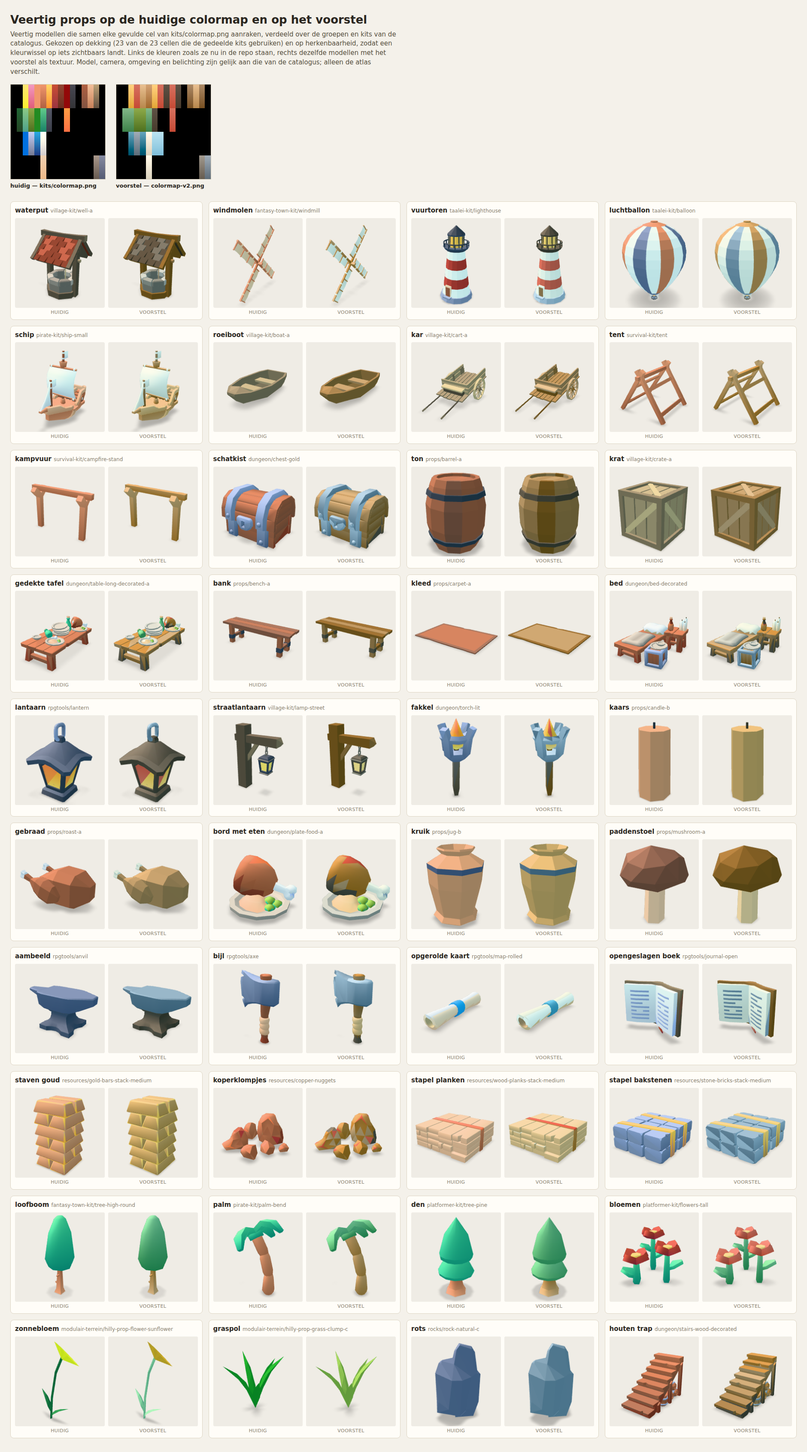
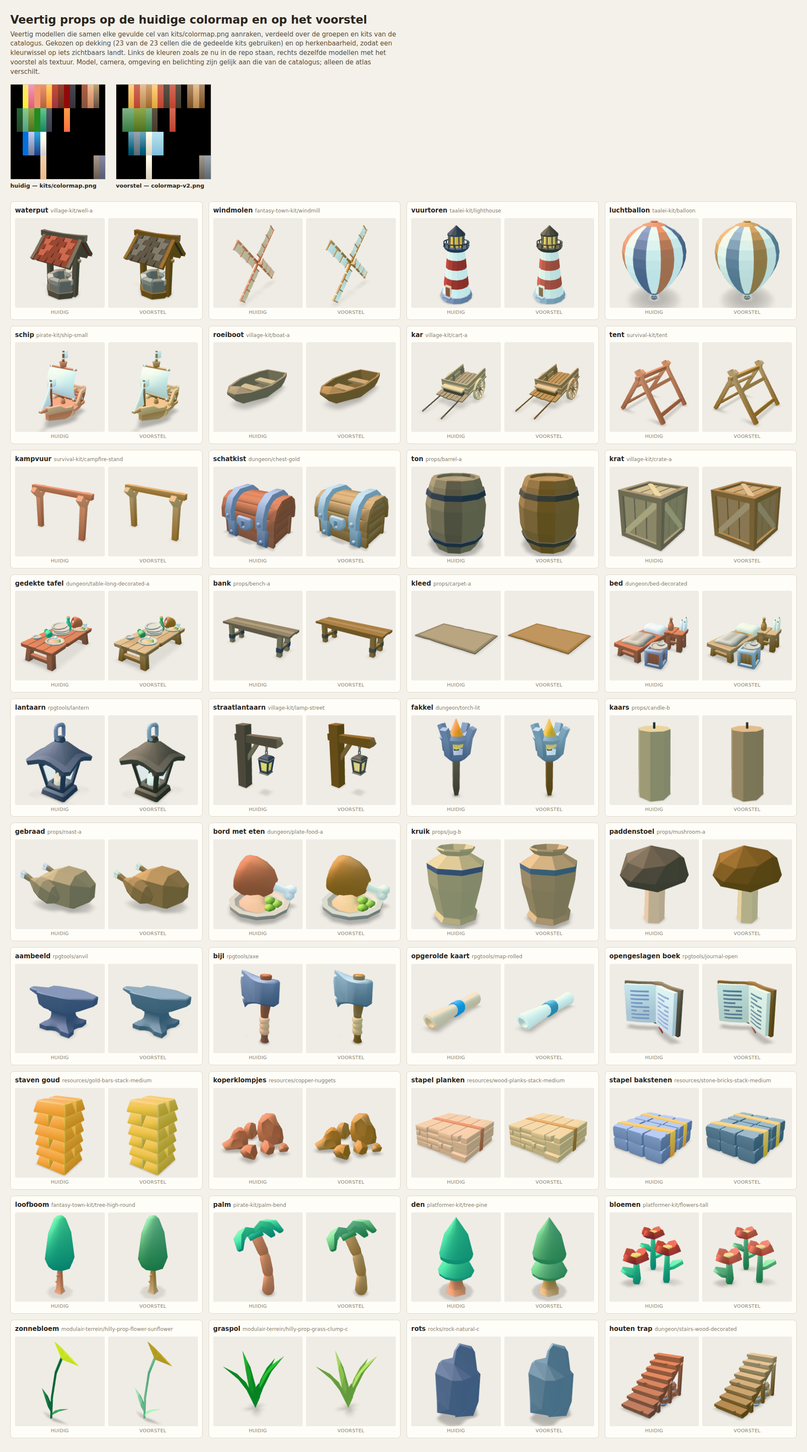
Voorstel en review herrekend op het herstelde palet
Main heeft de kleurglitches in vijf kits rechtgezet, en daarmee verschoof
kits/palet.json: cellen die eerst per ongeluk werden aangeraakt tellen niet meer
mee. Omdat bouw-kandidaat.mjs elke familie weegt naar hoeveel modellen een cel
gebruiken, verandert daarmee het voorstel zelf. colormap-v2.png, het
kleurregister en de twee vergelijkingsbladen zijn opnieuw gebouwd.

De review stond nog vol cijfers van voor de overname en voor het herstel:
vijftien banen in plaats van dertien, 1019 modellen in plaats van 1008, en een
bladensectie die nog het pad /voor/ en de studio-omgeving neutral beschreef. Die
kloppen nu weer, met de tabel per familie zoals bouw-kandidaat.mjs hem afdrukt.

De catalogus houdt bij deze samenvoeging beide kanten: demoClip uit main kiest de
clip die in een lus om aan te zien is, zetLicht van deze tak zet de omgeving en
de belichting uit licht.json.

diff --git a/docs/kleur_per_groep.html b/docs/kleur_per_groep.html
@@ -185,7 +185,7 @@ td .cel { display: block; }
 </div>
 
 <script>
-const GEGEVENS = {"totaal":1093,"paletten":[{"id":"gedeeld","naam":"Gedeelde kits","atlas":"kits/colormap.png","modellen":1008,"groepen":[{"id":"bouwpakket","kort":"Bouwpakket","naam":"Bouwpakket & molens","n":225},{"id":"terrein","kort":"Grond","naam":"Grond & terrein","n":138},{"id":"rotsen","kort":"Rotsen","naam":"Rotsen & stenen","n":115},{"id":"grotterrein","kort":"Grotterrein","naam":"Grotterrein & mijnwerk","n":80},{"id":"grondstoffen","kort":"Grondstoffen","naam":"Grondstoffen & voorraad","n":57},{"id":"opslag","kort":"Kisten","naam":"Kisten & vaten","n":54},{"id":"bouwwerken","kort":"Bouwwerken","naam":"Bouwwerken & platforms","n":50},{"id":"bomen","kort":"Bomen","naam":"Bomen & palmen","n":39},{"id":"gereedschap","kort":"Gereedschap","naam":"Gereedschap & wapens","n":39},{"id":"verbinding","kort":"Trappen & bruggen","naam":"Trappen, bruggen & ladders","n":35},{"id":"hek","kort":"Hekken","naam":"Hekken, palen & poorten","n":35},{"id":"planten","kort":"Planten","naam":"Planten, gras & bloemen","n":27},{"id":"eten","kort":"Eten","naam":"Eten & koken","n":22},{"id":"huisraad","kort":"Huisraad","naam":"Huisraad & meubels","n":19},{"id":"schepen","kort":"Schepen","naam":"Schepen & varen","n":19},{"id":"licht","kort":"Licht","naam":"Licht & lampen","n":18},{"id":"items","kort":"Items","naam":"Verzamelobjecten & mechaniek","n":14},{"id":"borden","kort":"Borden","naam":"Borden, vlaggen & doelen","n":11},{"id":"zeebodem","kort":"Zeebodem","naam":"Koraal, zeewier & schelpen","n":4},{"id":"reisgerei","kort":"Reisgerei","naam":"Reisgerei & kaarten","n":4},{"id":"kamp","kort":"Kamp","naam":"Kamp & tenten","n":3}],"kleuren":[{"hex":"#8f785b","naam":"oranje","totaal":280,"per":{"opslag":9,"huisraad":4,"licht":14,"bouwpakket":96,"planten":1,"bouwwerken":8,"bomen":13,"grotterrein":32,"verbinding":10,"terrein":49,"eten":2,"hek":15,"grondstoffen":2,"gereedschap":15,"reisgerei":4,"items":1,"schepen":4,"borden":1}},{"hex":"#d07b56","naam":"oranje","totaal":268,"per":{"opslag":36,"huisraad":11,"bouwpakket":48,"items":2,"eten":7,"verbinding":14,"bouwwerken":29,"borden":10,"hek":20,"bomen":23,"gereedschap":17,"terrein":4,"rotsen":4,"kamp":3,"planten":3,"schepen":13,"grondstoffen":24}},{"hex":"#6d738a","naam":"lichtgrijs","totaal":228,"per":{"opslag":19,"huisraad":2,"bouwpakket":47,"items":6,"verbinding":14,"eten":4,"licht":5,"rotsen":78,"bouwwerken":3,"borden":1,"terrein":1,"schepen":4,"grondstoffen":20,"gereedschap":22,"reisgerei":2}},{"hex":"#88796d","naam":"lichtgrijs","totaal":212,"per":{"huisraad":3,"opslag":5,"bouwpakket":51,"eten":8,"verbinding":2,"licht":6,"grotterrein":61,"rotsen":20,"terrein":41,"bouwwerken":8,"grondstoffen":1,"gereedschap":4,"items":1,"borden":1}},{"hex":"#995a41","naam":"bruin","totaal":198,"per":{"opslag":32,"huisraad":18,"bouwpakket":40,"items":1,"eten":10,"licht":5,"verbinding":6,"bouwwerken":20,"hek":11,"gereedschap":16,"bomen":9,"terrein":1,"schepen":9,"borden":3,"grondstoffen":11,"rotsen":4,"reisgerei":2}},{"hex":"#9da4c4","naam":"blauw","totaal":189,"per":{"opslag":24,"huisraad":2,"bouwpakket":49,"items":4,"eten":7,"verbinding":8,"licht":4,"hek":2,"gereedschap":30,"rotsen":18,"terrein":2,"bouwwerken":4,"borden":2,"schepen":3,"grondstoffen":27,"reisgerei":3}},{"hex":"#dd9f79","naam":"oranje","totaal":129,"per":{"opslag":24,"huisraad":3,"licht":9,"bouwpakket":11,"eten":7,"verbinding":4,"bouwwerken":5,"kamp":1,"zeebodem":3,"terrein":3,"schepen":4,"rotsen":13,"hek":1,"planten":1,"grondstoffen":25,"gereedschap":11,"reisgerei":2,"bomen":2}},{"hex":"#f0ece3","naam":"lichtoranje","totaal":127,"per":{"opslag":5,"huisraad":4,"licht":9,"bouwpakket":45,"eten":8,"borden":5,"hek":1,"verbinding":4,"bouwwerken":2,"kamp":2,"zeebodem":1,"terrein":15,"planten":3,"schepen":8,"grondstoffen":9,"gereedschap":2,"reisgerei":4}},{"hex":"#7f3927","naam":"rood","totaal":105,"per":{"opslag":17,"huisraad":14,"bouwpakket":35,"items":1,"eten":4,"licht":4,"verbinding":2,"bomen":6,"planten":1,"grondstoffen":15,"gereedschap":5,"bouwwerken":1}},{"hex":"#474a58","naam":"grijs","totaal":100,"per":{"huisraad":2,"opslag":8,"bouwpakket":40,"items":4,"verbinding":8,"rotsen":7,"schepen":8,"grondstoffen":8,"gereedschap":11,"reisgerei":1,"licht":3}},{"hex":"#3e3e44","naam":"grijs","totaal":93,"per":{"bouwpakket":44,"verbinding":6,"opslag":6,"terrein":2,"bouwwerken":4,"planten":2,"schepen":10,"huisraad":2,"licht":7,"eten":3,"rotsen":2,"gereedschap":4,"bomen":1}},{"hex":"#228b22","naam":"groen","totaal":60,"per":{"verbinding":1,"terrein":55,"planten":4}},{"hex":"#3da679","naam":"groen","totaal":52,"per":{"opslag":6,"bouwpakket":16,"eten":5,"bomen":15,"terrein":5,"schepen":2,"planten":1,"grondstoffen":1,"rotsen":1}},{"hex":"#b2413a","naam":"rood","totaal":43,"per":{"opslag":9,"huisraad":1,"licht":4,"items":4,"eten":3,"bouwpakket":1,"bomen":6,"borden":1,"planten":4,"grondstoffen":7,"gereedschap":1,"reisgerei":2}},{"hex":"#f0c59d","naam":"lichtoranje","totaal":41,"per":{"opslag":9,"huisraad":1,"licht":5,"eten":4,"bouwpakket":3,"planten":2,"grondstoffen":5,"gereedschap":7,"reisgerei":2,"rotsen":1,"verbinding":2}},{"hex":"#ff8744","naam":"oranje","totaal":39,"per":{"opslag":9,"huisraad":2,"licht":4,"items":5,"eten":3,"bouwpakket":1,"bomen":2,"grondstoffen":12,"gereedschap":1}},{"hex":"#ffb349","naam":"oranje","totaal":39,"per":{"opslag":2,"licht":7,"items":8,"huisraad":1,"planten":2,"grondstoffen":12,"gereedschap":3,"eten":1,"verbinding":3}},{"hex":"#6d8d33","naam":"groen","totaal":21,"per":{"eten":4,"planten":11,"bomen":4,"opslag":1,"bouwwerken":1}},{"hex":"#6cb588","naam":"groen","totaal":13,"per":{"opslag":4,"bouwpakket":5,"eten":3,"rotsen":1}},{"hex":"#206734","naam":"donkergroen","totaal":11,"per":{"planten":6,"bomen":5}},{"hex":"#2474b4","naam":"blauw","totaal":11,"per":{"terrein":7,"planten":1,"gereedschap":1,"reisgerei":2}},{"hex":"#f1976c","naam":"oranje","totaal":4,"per":{"eten":2,"bouwwerken":2}},{"hex":"#fbf02d","naam":"geel","totaal":4,"per":{"planten":4}}]},{"id":"grot","naam":"Grot","atlas":"kits/modular-cave-kit/Textures/colormap.png","modellen":40,"groepen":[{"id":"grot","kort":"Grot","naam":"Grot & gangen","n":40}],"kleuren":[{"hex":"#a16d58","naam":"oranje","totaal":36,"per":{"grot":36}},{"hex":"#8a5d4b","naam":"bruin","totaal":29,"per":{"grot":29}},{"hex":"#ba7554","naam":"oranje","totaal":25,"per":{"grot":25}},{"hex":"#9da4c4","naam":"blauw","totaal":1,"per":{"grot":1}}]},{"id":"onderwater","naam":"Onderwater","atlas":null,"modellen":45,"groepen":[{"id":"dieren","kort":"Dieren","naam":"Dieren","n":20},{"id":"zeebodem","kort":"Zeebodem","naam":"Koraal, zeewier & schelpen","n":14},{"id":"rotsen","kort":"Rotsen","naam":"Rotsen & stenen","n":11}],"kleuren":[{"hex":"#5a5c61","naam":"grijs","totaal":11,"per":{"rotsen":11}},{"hex":"#e7e7e7","naam":"wit","totaal":7,"per":{"zeebodem":7}},{"hex":"#1b5f1d","naam":"donkergroen","totaal":3,"per":{"zeebodem":3}},{"hex":"#272a2f","naam":"donkergrijs","totaal":2,"per":{"dieren":2}},{"hex":"#1d1c22","naam":"donkergrijs","totaal":1,"per":{"dieren":1}},{"hex":"#275f38","naam":"donkergroen","totaal":1,"per":{"dieren":1}},{"hex":"#2a2c51","naam":"donkerblauw","totaal":1,"per":{"dieren":1}},{"hex":"#2c50dd","naam":"blauw","totaal":1,"per":{"dieren":1}},{"hex":"#323232","naam":"donkergrijs","totaal":1,"per":{"dieren":1}},{"hex":"#363636","naam":"donkergrijs","totaal":1,"per":{"dieren":1}},{"hex":"#38723d","naam":"groen","totaal":1,"per":{"dieren":1}},{"hex":"#49566b","naam":"blauw","totaal":1,"per":{"dieren":1}},{"hex":"#4d4f5a","naam":"grijs","totaal":1,"per":{"dieren":1}},{"hex":"#4f5d7e","naam":"blauw","totaal":1,"per":{"dieren":1}},{"hex":"#523525","naam":"donkerbruin","totaal":1,"per":{"dieren":1}},{"hex":"#586780","naam":"blauw","totaal":1,"per":{"dieren":1}},{"hex":"#5e749c","naam":"blauw","totaal":1,"per":{"dieren":1}},{"hex":"#6974a0","naam":"blauw","totaal":1,"per":{"zeebodem":1}},{"hex":"#6ba069","naam":"groen","totaal":1,"per":{"zeebodem":1}},{"hex":"#755439","naam":"bruin","totaal":1,"per":{"dieren":1}},{"hex":"#84888f","naam":"lichtgrijs","totaal":1,"per":{"dieren":1}},{"hex":"#88898e","naam":"lichtgrijs","totaal":1,"per":{"dieren":1}},{"hex":"#a0885f","naam":"oranje","totaal":1,"per":{"zeebodem":1}},{"hex":"#a38876","naam":"oranje","totaal":1,"per":{"dieren":1}},{"hex":"#a96f72","naam":"rood","totaal":1,"per":{"dieren":1}},{"hex":"#a9b7cf","naam":"blauw","totaal":1,"per":{"dieren":1}},{"hex":"#afc2d0","naam":"lichtblauw","totaal":1,"per":{"dieren":1}},{"hex":"#b1b4d7","naam":"lichtblauw","totaal":1,"per":{"dieren":1}},{"hex":"#b5bee7","naam":"lichtblauw","totaal":1,"per":{"dieren":1}},{"hex":"#c24c32","naam":"rood","totaal":1,"per":{"dieren":1}},{"hex":"#d4392d","naam":"rood","totaal":1,"per":{"dieren":1}},{"hex":"#d65725","naam":"oranje","totaal":1,"per":{"dieren":1}},{"hex":"#d78b5b","naam":"oranje","totaal":1,"per":{"dieren":1}},{"hex":"#e0e0e0","naam":"wit","totaal":1,"per":{"dieren":1}},{"hex":"#e75178","naam":"roze","totaal":1,"per":{"zeebodem":1}},{"hex":"#e76f54","naam":"rood","totaal":1,"per":{"dieren":1}},{"hex":"#e79e26","naam":"oranje","totaal":1,"per":{"dieren":1}},{"hex":"#e7c776","naam":"oranje","totaal":1,"per":{"dieren":1}},{"hex":"#e7d636","naam":"geel","totaal":1,"per":{"dieren":1}},{"hex":"#ec320c","naam":"rood","totaal":1,"per":{"dieren":1}},{"hex":"#f08e7c","naam":"rood","totaal":1,"per":{"dieren":1}},{"hex":"#f1634b","naam":"rood","totaal":1,"per":{"dieren":1}},{"hex":"#f64e00","naam":"oranje","totaal":1,"per":{"dieren":1}},{"hex":"#f7f8f5","naam":"wit","totaal":1,"per":{"dieren":1}},{"hex":"#f9f7f2","naam":"lichtoranje","totaal":1,"per":{"dieren":1}},{"hex":"#ffffff","naam":"wit","totaal":1,"per":{"dieren":1}}]}]};
+const GEGEVENS = {"totaal":1093,"paletten":[{"id":"gedeeld","naam":"Gedeelde kits","atlas":"kits/colormap.png","modellen":1008,"groepen":[{"id":"bouwpakket","kort":"Bouwpakket","naam":"Bouwpakket & molens","n":225},{"id":"terrein","kort":"Grond","naam":"Grond & terrein","n":138},{"id":"rotsen","kort":"Rotsen","naam":"Rotsen & stenen","n":115},{"id":"grotterrein","kort":"Grotterrein","naam":"Grotterrein & mijnwerk","n":80},{"id":"grondstoffen","kort":"Grondstoffen","naam":"Grondstoffen & voorraad","n":57},{"id":"opslag","kort":"Kisten","naam":"Kisten & vaten","n":54},{"id":"bouwwerken","kort":"Bouwwerken","naam":"Bouwwerken & platforms","n":50},{"id":"bomen","kort":"Bomen","naam":"Bomen & palmen","n":39},{"id":"gereedschap","kort":"Gereedschap","naam":"Gereedschap & wapens","n":39},{"id":"verbinding","kort":"Trappen & bruggen","naam":"Trappen, bruggen & ladders","n":35},{"id":"hek","kort":"Hekken","naam":"Hekken, palen & poorten","n":35},{"id":"planten","kort":"Planten","naam":"Planten, gras & bloemen","n":27},{"id":"eten","kort":"Eten","naam":"Eten & koken","n":22},{"id":"huisraad","kort":"Huisraad","naam":"Huisraad & meubels","n":19},{"id":"schepen","kort":"Schepen","naam":"Schepen & varen","n":19},{"id":"licht","kort":"Licht","naam":"Licht & lampen","n":18},{"id":"items","kort":"Items","naam":"Verzamelobjecten & mechaniek","n":14},{"id":"borden","kort":"Borden","naam":"Borden, vlaggen & doelen","n":11},{"id":"zeebodem","kort":"Zeebodem","naam":"Koraal, zeewier & schelpen","n":4},{"id":"reisgerei","kort":"Reisgerei","naam":"Reisgerei & kaarten","n":4},{"id":"kamp","kort":"Kamp","naam":"Kamp & tenten","n":3}],"kleuren":[{"hex":"#8f785b","naam":"oranje","totaal":302,"per":{"opslag":20,"huisraad":6,"licht":16,"bouwpakket":96,"planten":1,"bouwwerken":8,"bomen":13,"grotterrein":32,"verbinding":11,"terrein":49,"eten":8,"hek":15,"grondstoffen":2,"gereedschap":15,"reisgerei":4,"items":1,"schepen":4,"borden":1}},{"hex":"#d07b56","naam":"oranje","totaal":238,"per":{"opslag":27,"huisraad":3,"bouwpakket":36,"items":2,"eten":7,"verbinding":13,"bouwwerken":29,"borden":10,"hek":20,"bomen":23,"gereedschap":17,"terrein":4,"rotsen":4,"kamp":3,"planten":3,"schepen":13,"grondstoffen":24}},{"hex":"#6d738a","naam":"lichtgrijs","totaal":226,"per":{"opslag":19,"huisraad":2,"bouwpakket":47,"items":6,"verbinding":14,"eten":2,"licht":5,"rotsen":78,"bouwwerken":3,"borden":1,"terrein":1,"schepen":4,"grondstoffen":20,"gereedschap":22,"reisgerei":2}},{"hex":"#88796d","naam":"lichtgrijs","totaal":205,"per":{"huisraad":3,"bouwpakket":46,"eten":10,"verbinding":2,"opslag":4,"grotterrein":61,"rotsen":20,"terrein":41,"bouwwerken":8,"grondstoffen":1,"gereedschap":4,"licht":3,"items":1,"borden":1}},{"hex":"#995a41","naam":"bruin","totaal":177,"per":{"opslag":25,"huisraad":14,"bouwpakket":39,"licht":5,"verbinding":5,"eten":3,"bouwwerken":20,"hek":11,"gereedschap":16,"bomen":9,"terrein":1,"schepen":9,"borden":3,"grondstoffen":11,"rotsen":4,"reisgerei":2}},{"hex":"#f0ece3","naam":"lichtoranje","totaal":127,"per":{"opslag":5,"huisraad":4,"licht":9,"bouwpakket":45,"eten":8,"borden":5,"hek":1,"verbinding":4,"bouwwerken":2,"kamp":2,"zeebodem":1,"terrein":15,"planten":3,"schepen":8,"grondstoffen":9,"gereedschap":2,"reisgerei":4}},{"hex":"#9da4c4","naam":"blauw","totaal":117,"per":{"opslag":8,"hek":2,"bouwpakket":16,"gereedschap":30,"rotsen":18,"terrein":2,"bouwwerken":4,"borden":2,"schepen":3,"items":1,"grondstoffen":27,"reisgerei":3,"licht":1}},{"hex":"#dd9f79","naam":"oranje","totaal":113,"per":{"opslag":17,"huisraad":2,"eten":7,"verbinding":4,"bouwpakket":10,"bouwwerken":7,"kamp":1,"zeebodem":3,"terrein":3,"schepen":4,"rotsen":13,"hek":1,"planten":1,"grondstoffen":25,"gereedschap":11,"reisgerei":2,"bomen":2}},{"hex":"#474a58","naam":"grijs","totaal":86,"per":{"bouwpakket":39,"verbinding":7,"rotsen":7,"schepen":8,"items":1,"opslag":1,"grondstoffen":8,"gereedschap":11,"reisgerei":1,"licht":3}},{"hex":"#3e3e44","naam":"grijs","totaal":61,"per":{"bouwpakket":17,"opslag":5,"terrein":2,"bouwwerken":4,"planten":2,"schepen":10,"huisraad":2,"licht":7,"eten":2,"rotsen":2,"gereedschap":4,"verbinding":3,"bomen":1}},{"hex":"#228b22","naam":"groen","totaal":60,"per":{"verbinding":1,"terrein":55,"planten":4}},{"hex":"#7f3927","naam":"rood","totaal":59,"per":{"opslag":6,"huisraad":1,"bomen":6,"planten":1,"grondstoffen":15,"gereedschap":5,"licht":2,"bouwpakket":22,"bouwwerken":1}},{"hex":"#3da679","naam":"groen","totaal":49,"per":{"opslag":5,"bouwpakket":16,"eten":3,"bomen":15,"terrein":5,"schepen":2,"planten":1,"grondstoffen":1,"rotsen":1}},{"hex":"#ffb349","naam":"oranje","totaal":39,"per":{"opslag":2,"licht":7,"items":8,"huisraad":1,"planten":2,"grondstoffen":12,"gereedschap":3,"eten":1,"verbinding":3}},{"hex":"#b2413a","naam":"rood","totaal":30,"per":{"eten":3,"bomen":6,"borden":1,"planten":4,"items":3,"opslag":2,"grondstoffen":7,"gereedschap":1,"reisgerei":2,"licht":1}},{"hex":"#f0c59d","naam":"lichtoranje","totaal":24,"per":{"bouwpakket":2,"opslag":1,"planten":2,"grondstoffen":5,"gereedschap":7,"licht":2,"reisgerei":2,"rotsen":1,"verbinding":2}},{"hex":"#6d8d33","naam":"groen","totaal":21,"per":{"eten":4,"planten":11,"bomen":4,"opslag":1,"bouwwerken":1}},{"hex":"#ff8744","naam":"oranje","totaal":18,"per":{"items":1,"bomen":2,"grondstoffen":12,"licht":1,"gereedschap":1,"eten":1}},{"hex":"#2474b4","naam":"blauw","totaal":12,"per":{"terrein":7,"planten":1,"opslag":1,"gereedschap":1,"reisgerei":2}},{"hex":"#206734","naam":"donkergroen","totaal":11,"per":{"planten":6,"bomen":5}},{"hex":"#fbf02d","naam":"geel","totaal":4,"per":{"planten":4}}]},{"id":"grot","naam":"Grot","atlas":"kits/modular-cave-kit/Textures/colormap.png","modellen":40,"groepen":[{"id":"grot","kort":"Grot","naam":"Grot & gangen","n":40}],"kleuren":[{"hex":"#a16d58","naam":"oranje","totaal":36,"per":{"grot":36}},{"hex":"#8a5d4b","naam":"bruin","totaal":29,"per":{"grot":29}},{"hex":"#ba7554","naam":"oranje","totaal":25,"per":{"grot":25}},{"hex":"#9da4c4","naam":"blauw","totaal":1,"per":{"grot":1}}]},{"id":"onderwater","naam":"Onderwater","atlas":null,"modellen":45,"groepen":[{"id":"dieren","kort":"Dieren","naam":"Dieren","n":20},{"id":"zeebodem","kort":"Zeebodem","naam":"Koraal, zeewier & schelpen","n":14},{"id":"rotsen","kort":"Rotsen","naam":"Rotsen & stenen","n":11}],"kleuren":[{"hex":"#5a5c61","naam":"grijs","totaal":11,"per":{"rotsen":11}},{"hex":"#e7e7e7","naam":"wit","totaal":7,"per":{"zeebodem":7}},{"hex":"#1b5f1d","naam":"donkergroen","totaal":3,"per":{"zeebodem":3}},{"hex":"#272a2f","naam":"donkergrijs","totaal":2,"per":{"dieren":2}},{"hex":"#1d1c22","naam":"donkergrijs","totaal":1,"per":{"dieren":1}},{"hex":"#275f38","naam":"donkergroen","totaal":1,"per":{"dieren":1}},{"hex":"#2a2c51","naam":"donkerblauw","totaal":1,"per":{"dieren":1}},{"hex":"#2c50dd","naam":"blauw","totaal":1,"per":{"dieren":1}},{"hex":"#323232","naam":"donkergrijs","totaal":1,"per":{"dieren":1}},{"hex":"#363636","naam":"donkergrijs","totaal":1,"per":{"dieren":1}},{"hex":"#38723d","naam":"groen","totaal":1,"per":{"dieren":1}},{"hex":"#49566b","naam":"blauw","totaal":1,"per":{"dieren":1}},{"hex":"#4d4f5a","naam":"grijs","totaal":1,"per":{"dieren":1}},{"hex":"#4f5d7e","naam":"blauw","totaal":1,"per":{"dieren":1}},{"hex":"#523525","naam":"donkerbruin","totaal":1,"per":{"dieren":1}},{"hex":"#586780","naam":"blauw","totaal":1,"per":{"dieren":1}},{"hex":"#5e749c","naam":"blauw","totaal":1,"per":{"dieren":1}},{"hex":"#6974a0","naam":"blauw","totaal":1,"per":{"zeebodem":1}},{"hex":"#6ba069","naam":"groen","totaal":1,"per":{"zeebodem":1}},{"hex":"#755439","naam":"bruin","totaal":1,"per":{"dieren":1}},{"hex":"#84888f","naam":"lichtgrijs","totaal":1,"per":{"dieren":1}},{"hex":"#88898e","naam":"lichtgrijs","totaal":1,"per":{"dieren":1}},{"hex":"#a0885f","naam":"oranje","totaal":1,"per":{"zeebodem":1}},{"hex":"#a38876","naam":"oranje","totaal":1,"per":{"dieren":1}},{"hex":"#a96f72","naam":"rood","totaal":1,"per":{"dieren":1}},{"hex":"#a9b7cf","naam":"blauw","totaal":1,"per":{"dieren":1}},{"hex":"#afc2d0","naam":"lichtblauw","totaal":1,"per":{"dieren":1}},{"hex":"#b1b4d7","naam":"lichtblauw","totaal":1,"per":{"dieren":1}},{"hex":"#b5bee7","naam":"lichtblauw","totaal":1,"per":{"dieren":1}},{"hex":"#c24c32","naam":"rood","totaal":1,"per":{"dieren":1}},{"hex":"#d4392d","naam":"rood","totaal":1,"per":{"dieren":1}},{"hex":"#d65725","naam":"oranje","totaal":1,"per":{"dieren":1}},{"hex":"#d78b5b","naam":"oranje","totaal":1,"per":{"dieren":1}},{"hex":"#e0e0e0","naam":"wit","totaal":1,"per":{"dieren":1}},{"hex":"#e75178","naam":"roze","totaal":1,"per":{"zeebodem":1}},{"hex":"#e76f54","naam":"rood","totaal":1,"per":{"dieren":1}},{"hex":"#e79e26","naam":"oranje","totaal":1,"per":{"dieren":1}},{"hex":"#e7c776","naam":"oranje","totaal":1,"per":{"dieren":1}},{"hex":"#e7d636","naam":"geel","totaal":1,"per":{"dieren":1}},{"hex":"#ec320c","naam":"rood","totaal":1,"per":{"dieren":1}},{"hex":"#f08e7c","naam":"rood","totaal":1,"per":{"dieren":1}},{"hex":"#f1634b","naam":"rood","totaal":1,"per":{"dieren":1}},{"hex":"#f64e00","naam":"oranje","totaal":1,"per":{"dieren":1}},{"hex":"#f7f8f5","naam":"wit","totaal":1,"per":{"dieren":1}},{"hex":"#f9f7f2","naam":"lichtoranje","totaal":1,"per":{"dieren":1}},{"hex":"#ffffff","naam":"wit","totaal":1,"per":{"dieren":1}}]}]};
 
 const doek = document.getElementById('doek');
 const paletrij = document.getElementById('paletrij');

diff --git a/docs/kleurmap_review.md b/docs/kleurmap_review.md
@@ -6,6 +6,11 @@ zoals hij binnenkwam ernaast als `colormap-v2-aangeleverd.png`. Alle drie delen
 hetzelfde raster van 16 × 4 cellen, dus de UV's van de modellen blijven waar ze
 staan en alleen de textuur wisselt.
 
+De cijfers hieronder gelden voor `kits/palet.json` zoals het nu is, na het
+herstel van de kleurglitches in de dungeon-, resources- en rpgtools-kits. Draai
+`node tools/build-catalog.mjs` en daarna de scripts hieronder opnieuw als er aan
+de kits of aan het palet iets verandert; de tabellen verschuiven mee.
+
 ## Hoe het voorstel is opgebouwd
 
 `bouw-kandidaat.mjs` leidt het af uit de aangeleverde atlas, met
@@ -20,10 +25,10 @@ node tools/vergelijk-kleurmap/bouw-kandidaat.mjs
    scheepsrompen rood werden. Hij draagt nu een eigen houttoon.
 2. **De cellen 3,1 en 4,1 dragen de graspollen** en staan allebei op de baan die
    cel 3,1 in `kits/colormap.png` heeft: `#8daa49 → #4e701e`.
-3. **Cellen met dezelfde kleur delen één baan**, en een paar families gaan samen:
-   de twee donkerste banen (8,0 bij 10,0 en 6,1) en het gebroken wit met het zand
-   (5,2 en 5,3). Bij zo'n samenvoeging wordt de kleurtoon het gewogen midden van
-   de twee, naar hoeveel modellen elke kant meebrengt.
+3. **Cellen met dezelfde kleur delen één baan**, en twee families gaan samen:
+   de twee donkerste banen (8,0 bij 10,0 en 6,1) en het gebroken wit met het
+   zand (5,2 en 5,3). Bij zo'n samenvoeging wordt de kleurtoon het gewogen
+   midden van de twee, naar hoeveel modellen elke kant meebrengt.
 4. **Elke familie krijgt de lichtheid terug van de cellen die hij vervangt** —
    zowel het midden als het verval, gewogen naar hoeveel modellen een cel
    gebruiken. Zonder die correctie wordt het palet als geheel donkerder, en
@@ -37,12 +42,13 @@ verzadigder, zoals verf zich gedraagt.
 ## Wat er nog niet klopt
 
 Het samenvoegen van cel 8,0 met de donkere grijzen is te goedkoop beoordeeld.
-De maat was "hoeveel modellen dragen beide cellen" — 27 — maar die maat telt
+De maat was "hoeveel modellen dragen beide cellen" — vijf — maar die maat telt
 alleen wat een model *verliest*. Cel 8,0 is nu een donker roodbruin dat op een
 fles of een vuurkorf leest als schaduw van het bruin ernaast; in de donkere
 familie wordt het een grijsgroen, en dan leest hetzelfde vlak als een ander
-materiaal. Op `dungeon/bottle-c-brown` is dat goed te zien: goudkleurig lijf,
-grijsgroen vlak, rode wig ernaast.
+materiaal. Die 58 modellen op cel 8,0 zien de kleur dus niet samenvallen met een
+andere kleur die ze al dragen — ze zien hem van kleurtoon veranderen, en dat is
+precies wat de maat niet ziet.
 
 Een volgende poging moet families dus niet alleen op gedeelde modellen wegen
 maar ook op kleurtoon: een roodbruin hoort niet bij een grijs, hoe donker ze
@@ -50,17 +56,17 @@ allebei ook zijn.
 
 ## De bladen
 
-`tools/vergelijk-kleurmap/` zet props twee keer neer: één keer met de oude atlas
-en één keer met de atlas die de kit nu meedraagt. Dat eerste gebeurt zonder iets
-in `kits/` aan te raken — de renderer serveert elk verzoek onder `/voor/` naar
-dezelfde bestanden, behalve `Textures/colormap.png`, waar `colormap-v1.png`
-teruggaat.
+`tools/vergelijk-kleurmap/` zet props twee keer neer: links de atlas die de kit
+nu meedraagt, rechts hetzelfde model met het voorstel. Dat tweede gebeurt zonder
+iets in `kits/` aan te raken — de renderer serveert elk verzoek onder
+`/voorstel/` naar dezelfde bestanden, behalve `Textures/colormap.png`, waar
+`colormap-v2.png` teruggaat.
 
 Elke tegel wordt geschoten met dezelfde `<model-viewer>` als `kits/catalog.js`
-gebruikt: `environment-image="neutral"`, `exposure="1.05"`, dezelfde schaduw en
-dezelfde `camera-orbit`. Dat is de hele bedoeling — een oordeel over een kleur
-moet gaan over de kleur zoals hij in de catalogus verschijnt. Een eigen scène met
-eigen belichting laat dezelfde atlas er heel anders uitzien.
+gebruikt: `environment-image="kits/omgeving.hdr"`, `exposure="1.25"`, dezelfde
+schaduw en dezelfde `camera-orbit`. Dat is de hele bedoeling — een oordeel over
+een kleur moet gaan over de kleur zoals hij in de catalogus verschijnt. Een
+eigen scène met eigen belichting laat dezelfde atlas er heel anders uitzien.
 
 Twee bladen, elk met veertig props en zonder overlap:
 [props-vergelijking.png](kleurmap_review/props-vergelijking.png) en
@@ -74,43 +80,42 @@ Zonder argument komen beide bladen langs; met een naam erachter alleen dat blad,
 bijvoorbeeld `... render.mjs props-vergelijking-b`.
 
 De lijsten staan in `props.json` en `props-b.json`. Elk van de twee is zo gekozen
-dat de veertig samen elke cel raken die de kits met het gedeelde palet gebruiken
-— 23 van de 23 — en dat ze over de groepen van de catalogus verdeeld liggen. De
-twee lijsten delen geen enkel model, dus samen laten ze tachtig verschillende
-props zien.
+dat de veertig samen elke cel raken die de kits met het gedeelde palet gebruiken,
+en dat ze over de groepen van de catalogus verdeeld liggen. De twee lijsten delen
+geen enkel model, dus samen laten ze tachtig verschillende props zien.
 
 ## De families en hun baan
 
-Vijftien banen over 28 gevulde cellen. Per familie het verval dat die cellen
-vóór de overname hadden, en het gemiddelde daarvan dat de hele familie kreeg.
+Dertien banen over 28 gevulde cellen. Dit is de tabel die `bouw-kandidaat.mjs`
+zelf afdrukt: per familie hoeveel modellen de cellen samen dragen, en het midden
+en het verval die de familie uit de oude atlas terugkrijgt.
 
-| familie | cellen | ΔL\* voor, per cel | ΔL\* familie | baan |
-| --- | --- | --- | ---: | --- |
-| grasgroen | 3,1 · 4,1 | 22,5 · 0,0 | 22,5 | `#8daa49 → #4e701e` |
-| hout | 5,0 | 21,2 | 21,2 | `#ca9260 → #8e5c34` |
-| amber | 2,0 · 6,0 | −1,9 · 16,0 | 8,0 | `#eec471 → #eba739` |
-| rood | 3,0 · 7,0 · 9,0 · 9,1 | 16,6 · 12,0 · 0,0 · 8,5 | 9,3 | `#cc614a → #b74233` |
-| licht hout | 4,0 · 13,0 | 0,0 · 20,5 | 10,2 | `#c29763 → #a87b47` |
-| donkerbruin | 8,0 | 11,4 | 11,4 | `#7a5739 → #5a3d26` |
-| donker | 10,0 · 6,1 | 8,7 · 11,7 | 10,2 | `#46413a → #2e2b25` |
-| bruin | 12,0 · 14,0 | 9,1 · 32,2 | 20,7 | `#b18b5d → #7b5633` |
-| donkergroen | 1,1 · 2,1 · 5,1 | 12,2 · 15,0 · 25,5 | 17,6 | `#3b8245 → #22532e` |
-| blauwgroen | 2,2 · 4,2 | 0,0 · 38,5 | 19,2 | `#3a92ad → #1d5f76` |
-| blauwgrijs | 3,2 · 15,3 | 31,7 · 19,1 | 25,4 | `#aab8c3 → #677582` |
-| gebroken wit | 5,2 | 17,0 | 17,0 | `#fffff7 → #d7d0c0` |
-| zand | 5,3 | 6,3 | 6,3 | `#e6d9b6 → #dcc692` |
-| grijsbruin | 14,3 | 24,8 | 24,8 | `#aaa093 → #696157` |
-| lichtblauw (nieuw) | 6,2 · 7,2 | _waren leeg_ | — | `#bce4f2 → #7fbfda` |
+| familie | cellen | modellen | midden L\* | verval ΔL\* | baan |
+| --- | --- | ---: | ---: | ---: | --- |
+| `#ffd37a→#d99a34` | 2,0 · 6,0 | 43 | 79,7 | 14,5 | `#ffd280 → #e2a633` |
+| `#e06b52→#a33a2c` | 3,0 · 7,0 · 9,0 · 9,1 | 51 | 53,0 | 10,7 | `#cf6b59 → #bd412e` |
+| `#d0a26b→#997040` | 4,0 · 13,0 | 114 | 70,6 | 20,1 | `#e9c091 → #b8884d` |
+| hout | 5,0 | 242 | 60,1 | 21,2 | `#d3a273 → #a16729` |
+| `#4a453d→#2a2721` | 10,0 · 6,1 · 8,0 | 208 | 30,5 | 10,7 | `#5c5247 → #463a2c` |
+| `#b08a5c→#7c5734` | 12,0 · 14,0 | 481 | 49,3 | 23,6 | `#af8c68 → #764e20` |
+| `#3e8748→#1f4d2a` | 1,1 · 2,1 · 5,1 | 61 | 56,2 | 22,9 | `#7fb585 → #377b43` |
+| `#3b94af→#1c5c73` | 2,2 · 4,2 | 12 | 46,9 | 35,3 | `#68a8bf → #004f69` |
+| `#a6b4bf→#6a7986` | 3,2 · 15,3 | 349 | 55,3 | 23,4 | `#98a5b0 → #5b6976` |
+| `#fbf8ef→#dfd8c7` | 5,2 · 5,3 | 151 | 92,8 | 15,4 | `#ffffef → #dbd4c0` |
+| `#bce4f2→#7fbfda` | 6,2 · 7,2 | 0 | — | — | onveranderd |
+| `#a39a8d→#6f675c` | 14,3 | 205 | 51,9 | 24,8 | `#a39b90 → #655c4f` |
 
-Cel 4,1 was vlak `#228b22` en draagt nu de baan van 3,1; dat is de grasvloer en
-de graspol.
+De graspollen staan niet in de tabel: cel 3,1 en 4,1 dragen de baan van 3,1 uit
+`kits/colormap.png` en worden niet herrekend. Met die baan erbij zijn het er
+dertien. Cel 4,1 was vlak `#228b22` en draagt nu diezelfde baan; dat is de
+grasvloer en de graspol.
 
 Twee dingen om te weten bij die middeling:
 
 - Een cel die vlak was en in een familie zit met een steile cel, is niet meer
-  vlak. Dat geldt voor 2,0, 4,0, 9,0 en 2,2. Van die vier wijzen alleen vier
-  modellen naar 4,0; de andere drie worden door geen enkel model gebruikt.
-- De houtbaan van cel 5,0 staat op afstand 38 van de bruine familie (12,0 en
+  vlak. Dat geldt voor 2,0, 4,0, 9,0 en 2,2. Samen dragen die vier cellen acht
+  modellen, dus wat er verandert blijft klein.
+- De houtbaan van cel 5,0 staat op afstand 83 van de bruine familie (12,0 en
   14,0). Bij een ruime opvatting van "dezelfde kleur" zouden die samen één
   familie zijn; ze staan los, want juist dat verschil houdt de treden en het
   frame van de houten trap uit elkaar.
@@ -119,22 +124,23 @@ Twee dingen om te weten bij die middeling:
 
 | ΔL\* over de baan | mediaan | gemiddeld | spreiding | laagste | hoogste | vlak (< 1) |
 | --- | ---: | ---: | ---: | ---: | ---: | ---: |
-| voor | 15,0 | 14,6 | 10,5 | −1,9 | 38,5 | 4 van 26 |
-| zoals aangeleverd | 19,4 | 19,0 | 5,4 | 0,0 | 32,9 | 1 van 26 |
-| nu | 17,5 | 15,5 | 6,1 | 6,4 | 25,5 | 0 van 26 |
+| voor | 13,6 | 14,6 | 10,5 | −1,9 | 38,5 | 4 van 26 |
+| zoals aangeleverd | 19,4 | 18,8 | 2,9 | 11,1 | 22,5 | 0 van 28 |
+| nu | 20,0 | 18,8 | 6,8 | 10,2 | 34,6 | 0 van 28 |
 
 De aangeleverde atlas gaf elke baan ongeveer hetzelfde verval, rond 19 in L\*,
-ook waar de oude atlas vlak was of juist heel steil. Het gemiddelde ligt nu dicht
-bij dat van daarvoor; de spreiding blijft kleiner, omdat een familie één baan
-deelt en de uitschieters binnen zo'n familie tegen elkaar wegvallen. De banen
-lopen bovendien vrijwel recht in waargenomen lichtheid: de grootste afwijking van
-een rechte lijn in L\* is 0,4, tegen 4,4 daarvoor.
+ook waar de oude atlas vlak was of juist heel steil. De spreiding komt nu weer in
+de buurt van die van daarvoor, omdat elke familie het verval van zijn eigen
+cellen terugkrijgt; helemaal gelijk wordt het niet, want binnen een familie
+vallen de uitschieters tegen elkaar weg. De banen lopen bovendien vrijwel recht
+in waargenomen lichtheid: de grootste afwijking van een rechte lijn in L\* is
+0,8, tegen 4,4 daarvoor.
 
 ## Wat het palet kost
 
-Het is geen kleurcorrectie maar een kleinere set: 23 kleurfamilies worden er 14
-(bij een drempel van 45 redmean op de middenkleur). Van de 1019 modellen met het
-gedeelde palet zijn er **156** waarin twee duidelijk verschillende kleuren
+Het is geen kleurcorrectie maar een kleinere set: 23 kleurfamilies worden er 13
+(bij een drempel van 45 redmean op de middenkleur). Van de 1008 modellen met het
+gedeelde palet zijn er **99** waarin twee duidelijk verschillende kleuren
 (afstand > 60 volgens dezelfde redmean-formule die `tools/kleurmap.mjs` gebruikt)
 nu praktisch samenvallen (afstand < 12). Op de bladen is dat te zien bij de kist
 — de banden en het hout lopen in elkaar over — en bij de kratten en tonnen uit de
@@ -142,37 +148,37 @@ dungeon-kit.
 
 ## Cel voor cel
 
-`modellen` telt hoeveel van de 1019 modellen met het gedeelde palet de cel
+`modellen` telt hoeveel van de 1008 modellen met het gedeelde palet de cel
 aanraken; `afstand` is de gemiddelde redmean-afstand tussen de boven- en
 onderkleur van beide banen.
 
 | cel | voor (boven → onder) | nu | modellen | afstand |
 | --- | --- | --- | ---: | ---: |
-| 2,0 | #fde675 → #fbf02d | #eec471 → #eba739 | 4 | 111 |
-| 3,0 | #f39ac2 → #e05c7a | #cc614a → #b74233 | 0 | 177 |
-| 4,0 | #f1976c → #f1976c | #c29763 → #a87b47 | 4 | 113 |
-| 5,0 | #f0976c → #b06041 | #ca9260 → #8e5c34 | 270 | 63 |
-| 6,0 | #ffd566 → #ff922d | #eec471 → #eba739 | 40 | 52 |
-| 7,0 | #c94d33 → #9b3440 | #cc614a → #b74233 | 43 | 55 |
-| 8,0 | #934431 → #6c2e1e | #7a5739 → #5a3d26 | 105 | 50 |
-| 9,0 | #930909 → #930909 | #cc614a → #b74233 | 0 | 183 |
-| 10,0 | #474752 → #343437 | #46413a → #2e2b25 | 95 | 39 |
-| 12,0 | #b06041 → #825442 | #b18b5d → #7b5633 | 199 | 61 |
-| 13,0 | #f2bf99 → #c88159 | #c29763 → #a87b47 | 130 | 100 |
-| 14,0 | #bca176 → #625040 | #b18b5d → #7b5633 | 281 | 53 |
-| 1,1 | #206734 → #254525 | #3b8245 → #22532e | 11 | 53 |
-| 2,1 | #8bca86 → #4da18a | #3b8245 → #22532e | 13 | 222 |
+| 2,0 | #fde675 → #fbf02d | #ffd280 → #e2a633 | 4 | 99 |
+| 3,0 | #f39ac2 → #e05c7a | #cf6b59 → #bd412e | 2 | 164 |
+| 4,0 | #f1976c → #f1976c | #e9c091 → #b8884d | 2 | 105 |
+| 5,0 | #f0976c → #b06041 | #d3a273 → #a16729 | 238 | 51 |
+| 6,0 | #ffd566 → #ff922d | #ffd280 → #e2a633 | 39 | 51 |
+| 7,0 | #c94d33 → #9b3440 | #cf6b59 → #bd412e | 30 | 75 |
+| 8,0 | #934431 → #6c2e1e | #5c5247 → #463a2c | 58 | 82 |
+| 9,0 | #930909 → #930909 | #cf6b59 → #bd412e | 1 | 197 |
+| 10,0 | #474752 → #343437 | #5c5247 → #463a2c | 61 | 39 |
+| 12,0 | #b06041 → #825442 | #af8c68 → #764e20 | 177 | 82 |
+| 13,0 | #f2bf99 → #c88159 | #e9c091 → #b8884d | 111 | 27 |
+| 14,0 | #bca176 → #625040 | #af8c68 → #764e20 | 302 | 56 |
+| 1,1 | #206734 → #254525 | #7fb585 → #377b43 | 11 | 186 |
+| 2,1 | #8bca86 → #4da18a | #7fb585 → #377b43 | 1 | 95 |
 | 3,1 | #8daa49 → #4e701e | #8daa49 → #4e701e | 21 | 0 |
 | 4,1 | #228b22 → #228b22 | #8daa49 → #4e701e | 60 | 136 |
-| 5,1 | #60ca8b → #198268 | #3b8245 → #22532e | 57 | 165 |
-| 6,1 | #545867 → #3a3d48 | #46413a → #2e2b25 | 100 | 80 |
-| 9,1 | #ff9c44 → #ff7244 | #cc614a → #b74233 | 39 | 152 |
-| 2,2 | #0070df → #0070df | #3a92ad → #1d5f76 | 0 | 163 |
-| 3,2 | #c5cef7 → #757a93 | #aab8c3 → #677582 | 190 | 68 |
-| 4,2 | #29abe2 → #1f3c85 | #3a92ad → #1d5f76 | 11 | 90 |
-| 5,2 | #fffff9 → #d3cdce | #fffff7 → #d7d0c0 | 127 | 13 |
+| 5,1 | #60ca8b → #198268 | #7fb585 → #377b43 | 49 | 71 |
+| 6,1 | #545867 → #3a3d48 | #5c5247 → #463a2c | 86 | 52 |
+| 9,1 | #ff9c44 → #ff7244 | #cf6b59 → #bd412e | 18 | 142 |
+| 2,2 | #0070df → #0070df | #68a8bf → #004f69 | 1 | 206 |
+| 3,2 | #c5cef7 → #757a93 | #98a5b0 → #5b6976 | 117 | 112 |
+| 4,2 | #29abe2 → #1f3c85 | #68a8bf → #004f69 | 11 | 94 |
+| 5,2 | #fffff9 → #d3cdce | #ffffef → #dbd4c0 | 127 | 21 |
 | 6,2 | leeg | #bce4f2 → #7fbfda | 0 | — |
 | 7,2 | leeg | #bce4f2 → #7fbfda | 0 | — |
-| 5,3 | #f1d0b2 → #efba88 | #e6d9b6 → #dcc692 | 41 | 35 |
-| 14,3 | #a9988b → #675a50 | #aaa093 → #696157 | 213 | 19 |
-| 15,3 | #868ba1 → #565b73 | #aab8c3 → #677582 | 228 | 91 |
+| 5,3 | #f1d0b2 → #efba88 | #ffffef → #dbd4c0 | 22 | 116 |
+| 14,3 | #a9988b → #675a50 | #a39b90 → #655c4f | 205 | 10 |
+| 15,3 | #868ba1 → #565b73 | #98a5b0 → #5b6976 | 226 | 47 |
